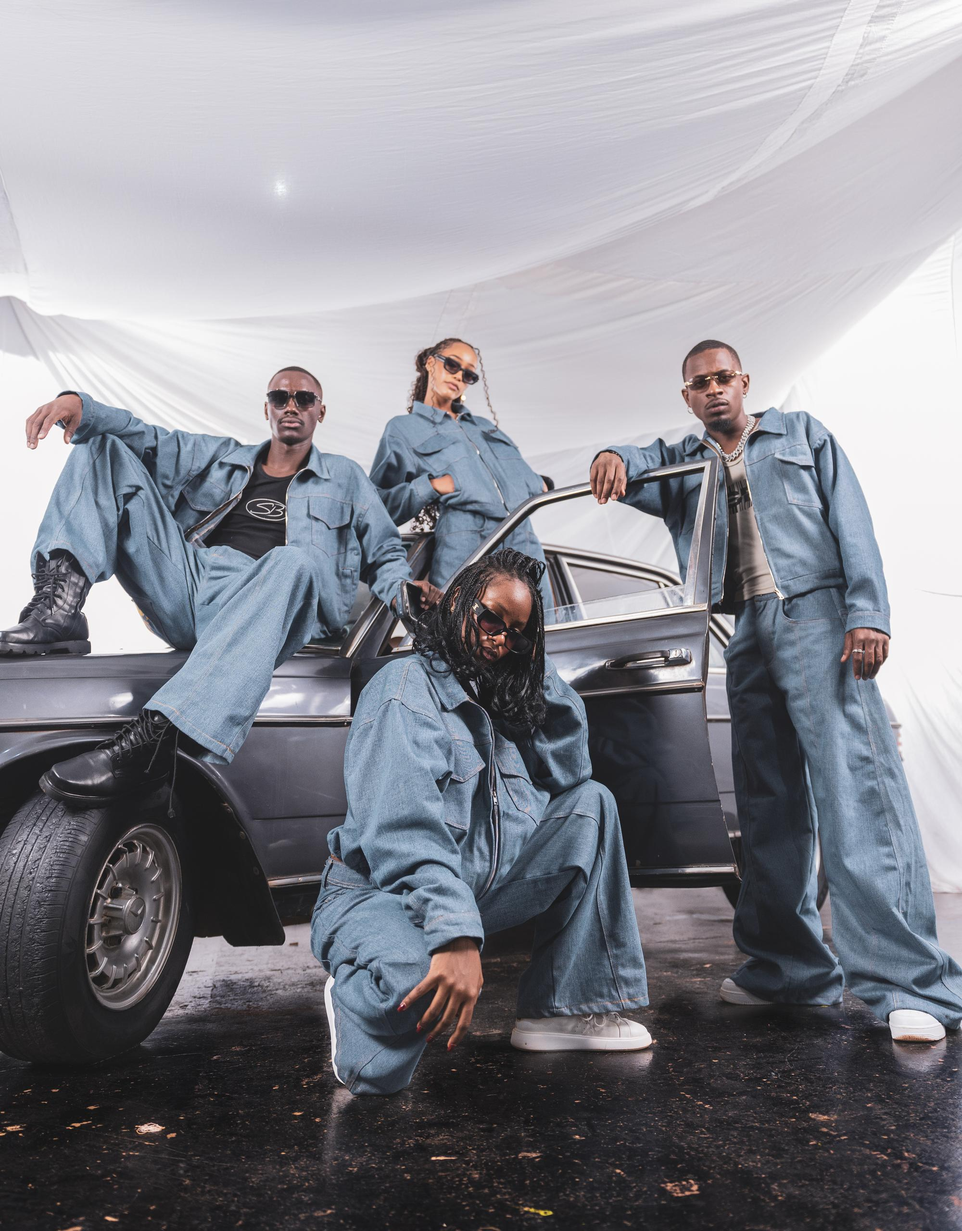
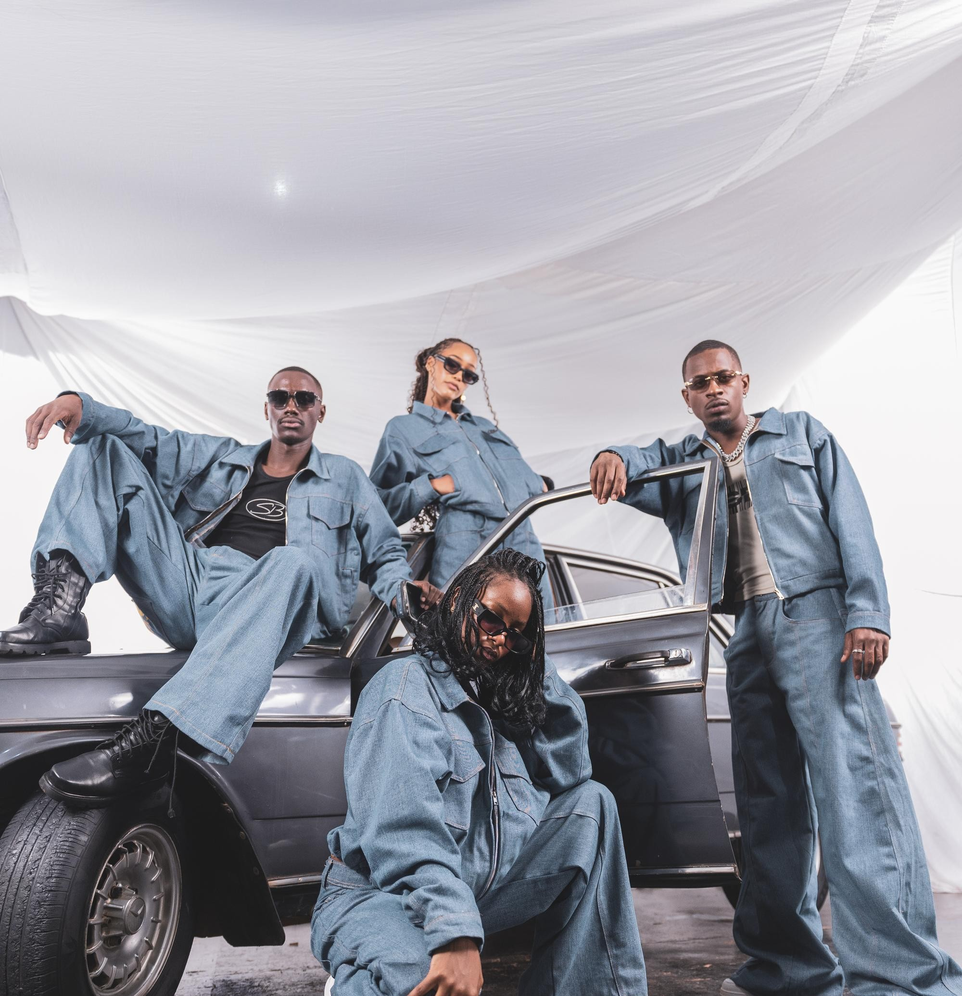
about page

diff --git a/src/pages/About/About.jsx b/src/pages/About/About.jsx
@@ -1,0 +1,51 @@
+// import React from "react";
+import hero from "../../assets/WhatsApp Image 2025-05-22 at 22.36.00.jpeg";
+import Header from "../../components/Navbar/Header";
+import Footer from "../../components/Footer/Footer";
+
+export default function AboutPage() {
+  return (
+    <div className="min-h-screen bg-black text-white font-sans">
+      <Header />
+
+      {/* Hero Section with Viewport Width and Fade Effect */}
+      <section className="relative w-screen h-[60vh] max-h-[800px] overflow-hidden">
+        {/* Hero Image */}
+        <img
+          src={hero}
+          alt="Hero"
+          className="w-full h-full object-cover object-center"
+        />
+
+        {/* Gradient Fade Overlay */}
+        <div className="absolute bottom-0 left-0 w-full h-1/3 bg-gradient-to-t from-black to-transparent" />
+      </section>
+
+      {/* Text Section with Smooth Transition */}
+      <section className="px-6 py-12 max-w-4xl mx-auto text-base md:text-lg leading-relaxed -mt-4">
+        <p className="mb-6">
+          Born in the underground scenes of Kampala, Speedball redefines urban
+          fashion through boundary-pushing designs. We're not just a clothing
+          brand - we're a movement blending street culture, music, and
+          contemporary African aesthetics.
+        </p>
+
+        <p className="mb-6">
+          Each drop is a curated experience, from our limited-edition denim
+          campaigns to collaborative artist collections. Our pieces are designed
+          for the creators, the nightlife icons, and those who treat the city as
+          their runway.
+        </p>
+
+        <p>
+          Through exclusive events and community initiatives, we've built more
+          than a brand - we've created a platform that elevates urban culture in
+          East Africa. Every stitch carries our ethos: premium quality, radical
+          self-expression, and undeniable edge.
+        </p>
+      </section>
+
+      <Footer />
+    </div>
+  );
+}
